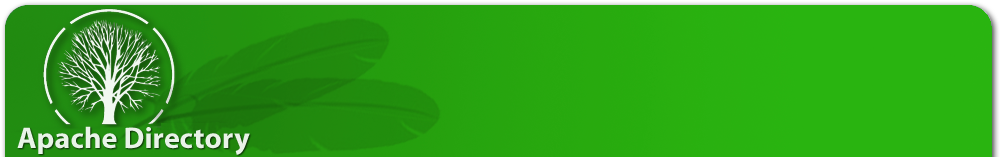
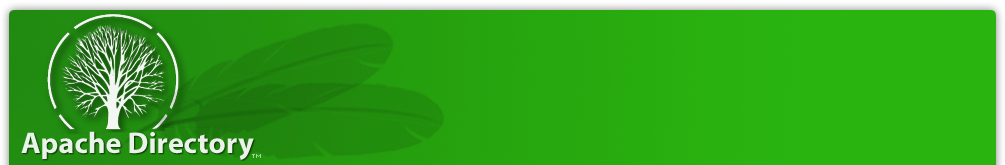
Use new header images with (TM), renamed css and images to get rid of date in file name.
git-svn-id: https://svn.apache.org/repos/asf/directory/skins/trunk@1051785 13f79535-47bb-0310-9956-ffa450edef68

Changed region(s): [[0.0, 0.0255, 0.992, 1.0], [0.992, 0.1274, 1.0, 1.0]]

diff --git a/apacheds-skin/src/main/resources/css/common.css b/apacheds-skin/src/main/resources/css/common.css
@@ -132,7 +132,7 @@ h6
 
 #content 
 {
-	background: url('../images/content-backgound_20091029.png') repeat-y;
+	background: url('../images/content-background.png') repeat-y;
 }
 
 #endContent 
@@ -293,7 +293,7 @@ a.blogHeading
 	padding-left: 203px;
 	height: 40px;
 	text-align: center;
-	background: url('../images/footer_20091029.png') no-repeat;
+	background: url('../images/footer.png') no-repeat;
 }
 
 .nobr sup img 

diff --git a/apacheds-skin/src/main/resources/css/green.css b/apacheds-skin/src/main/resources/css/green.css
@@ -24,7 +24,7 @@ h1, h2, h3, h4, h5, h6
 
 #header 
 {
-	background-image: url('../images/header-green_20091029.png');
+	background-image: url('../images/header-green.png');
 }
 
 .blogDate 
